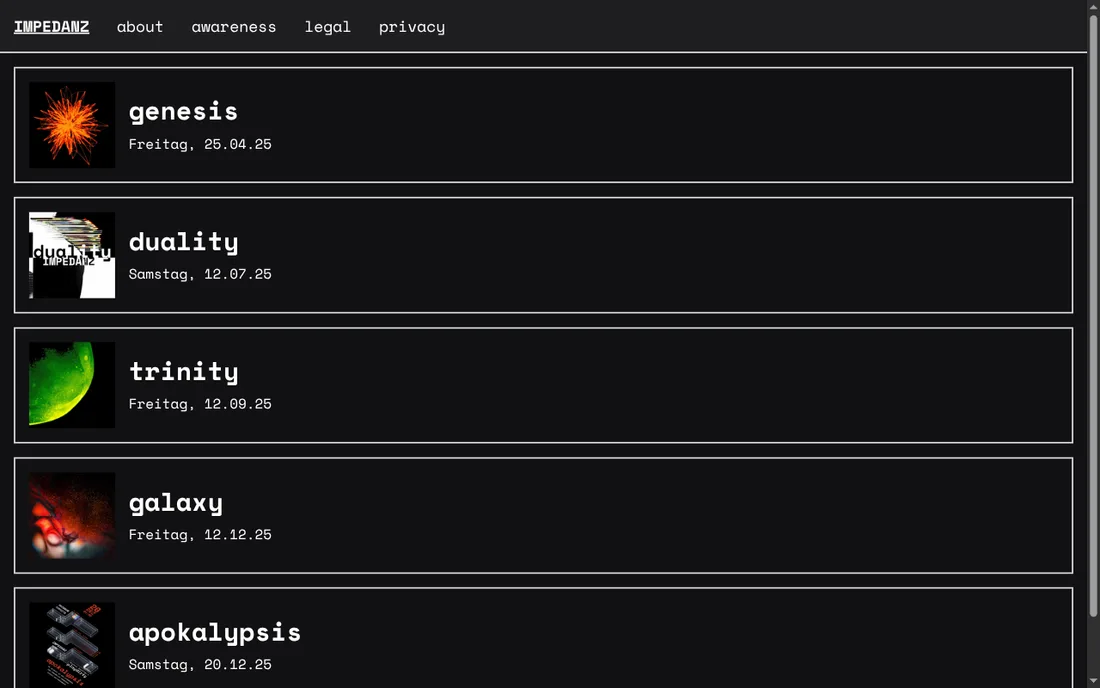
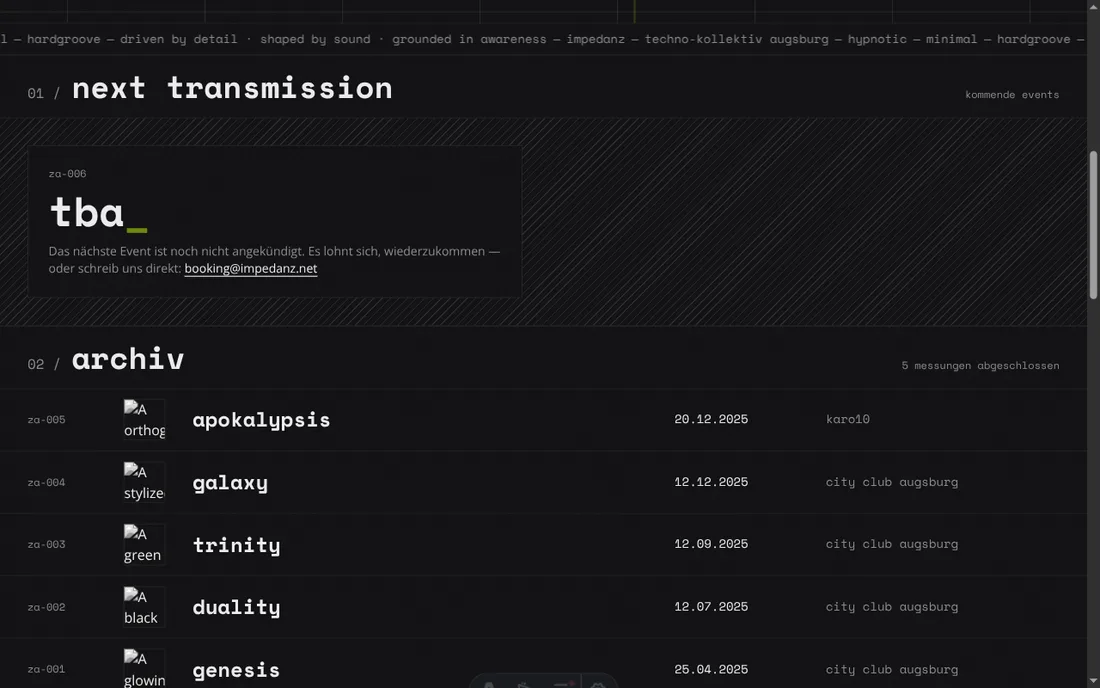
IMPEDANZ-Screenshot auf die kommende neue Website aktualisiert
Die neue Version (Terminal-Aesthetik) geht demnaechst live; Alt-Texte
entsprechend angepasst.

diff --git a/src/components/Referenzen.tsx b/src/components/Referenzen.tsx
@@ -24,7 +24,7 @@ const texte = {
         url: 'https://impedanz.net',
         urlLabel: 'impedanz.net',
         bild: '/referenzen/impedanz.webp',
-        bildAlt: 'Screenshot der Website impedanz.net: Eventliste in Schwarz-Weiß mit Monospace-Typografie',
+        bildAlt: 'Screenshot der Website impedanz.net: Terminal-Ästhetik mit kommender Veranstaltung und Event-Archiv',
         text: 'Kompletter Webauftritt für die Veranstaltungsreihe für elektronische Musik – vom Design bis zum Betrieb.',
         punkte: [
           'Eigenständiges Design statt Template',
@@ -70,7 +70,7 @@ const texte = {
         url: 'https://impedanz.net',
         urlLabel: 'impedanz.net',
         bild: '/referenzen/impedanz.webp',
-        bildAlt: 'Screenshot of impedanz.net: black-and-white event list with monospace typography',
+        bildAlt: 'Screenshot of impedanz.net: terminal aesthetic with upcoming event and event archive',
         text: 'Complete web presence for the electronic music event series – from design to operations.',
         punkte: [
           'Distinctive design instead of a template',